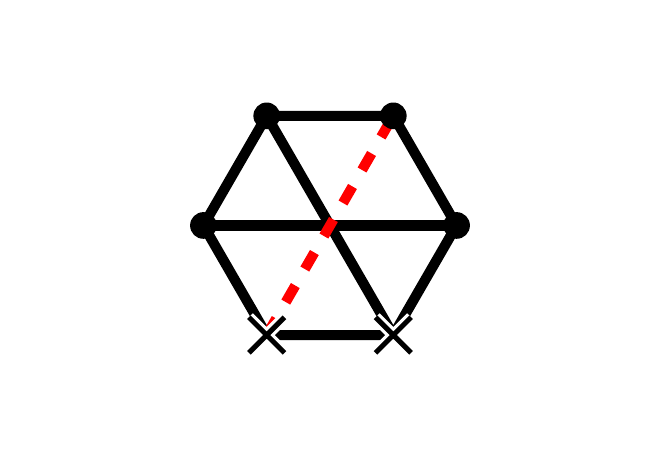
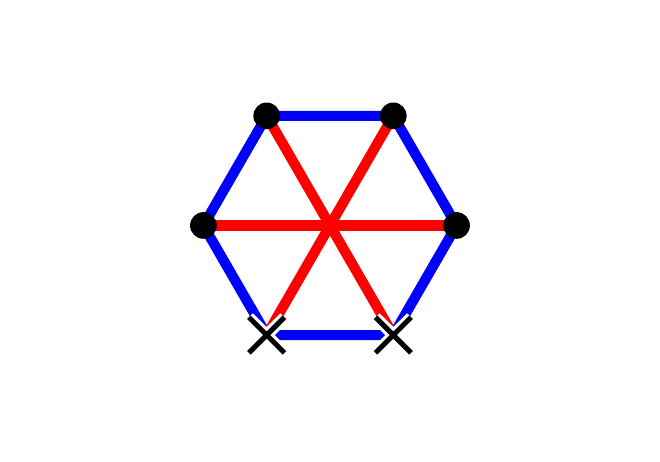
Color the regular hexagon by self-stress

Changed region(s): [[0.303, 0.2121, 0.697, 0.7576], [0.5455, 0.303, 0.5758, 0.3333]]

diff --git a/animations/README.md b/animations/README.md
@@ -4,9 +4,9 @@
 
 | Regular hexagon · Unperturbed | Figure 2(a) · Perturbed initial condition | Figure 2(b) · Final state |
 | --- | --- | --- |
-| <img src="figure-2-regular-hexagon.png" alt="Regular hexagon with three diagonals and two pinned vertices" width="220"> | <img src="figure-2a-perturbed-hexagon.png" alt="Perturbed hexagon with the free diagonal dashed in red" width="220"> | <img src="figure-2b-optimized-hexagon.png" alt="Optimized hexagon with self-stress colors and pinned flex arrows" width="220"> |
+| <img src="figure-2-regular-hexagon.png" alt="Regular hexagon with three red diagonals in tension, six blue perimeter bars in compression, and two pinned vertices" width="220"> | <img src="figure-2a-perturbed-hexagon.png" alt="Perturbed hexagon with the free diagonal dashed in red" width="220"> | <img src="figure-2b-optimized-hexagon.png" alt="Optimized hexagon with self-stress colors and pinned flex arrows" width="220"> |
 
-The regular hexagon has the same bar connections as Figure 2(a). The animation starts from the perturbed hexagon in Figure 2(a). Maximizing the length of the diagonal between vertices 1 and 4 while keeping the other bar lengths fixed gives the prestress-stable framework in Figure 2(b). [Watch the MATLAB animation (MP4)](figure-2a-to-2b-matlab.mp4)
+In the self-stress shown on the regular hexagon, all three diagonals are in tension (red) and the six perimeter bars are in compression (blue). The animation starts from the perturbed hexagon in Figure 2(a). Maximizing the length of the diagonal between vertices 1 and 4 while keeping the other bar lengths fixed gives the prestress-stable framework in Figure 2(b). [Watch the MATLAB animation (MP4)](figure-2a-to-2b-matlab.mp4)
 
 **Maximization · Squared length of edge 1–4**
 
